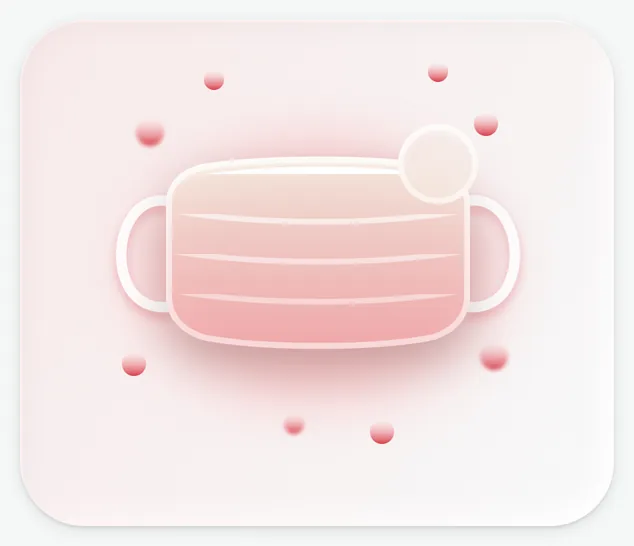
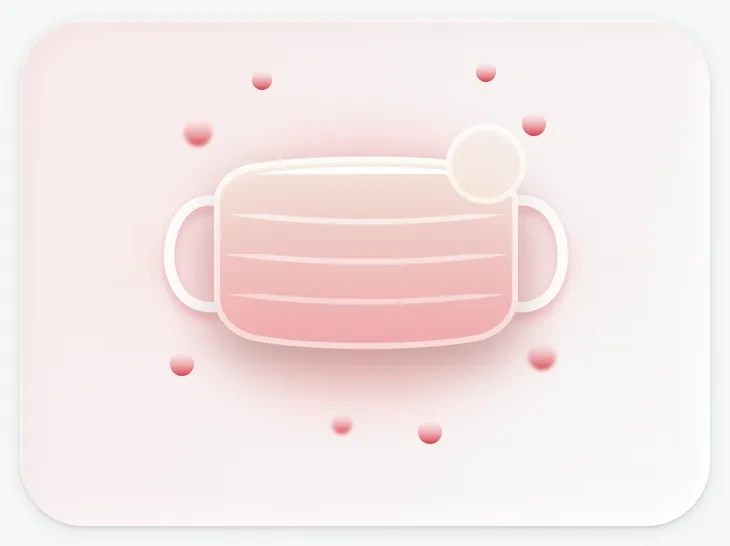
앱 v009: 본문 여백 48→24(폭 345) 반영, 증상 선택 버튼 정도별 색, 상세 화살표 유리 원
- 홈·상세·기록·설정 본문 폭 297→345, 홈 칩·카드·미니카드(166.5)·기록 카드 크기 v009에 맞춤
- 설정(B) 유리 패널 제거, 상세 화살표를 카드 아래층의 48px 유리 원으로
- D2 증상 버튼: 정도별 점·선택 색(심함/보통/약함/없음)
- 카드 그림은 tools/widen_art.py 로 v008 원본(tools/art_v008)에서 새 크기로 생성

Claude-Session: https://claude.ai/code/session_01CQujdFyja6aqkNEBx4wamv

diff --git a/src/template.html b/src/template.html
@@ -654,15 +654,17 @@ textarea.memo::placeholder{color:var(--i5)}
 .avatar svg{display:block;margin:0;position:relative;top:1.3px}
 {{OTX_CSS}}
 
+/* 설정(B) v009: 유리 패널을 걷어내고 행·카드를 폭 345로 바로 올려요 */
+.wpanel{background:none;border:0;box-shadow:none;backdrop-filter:none;-webkit-backdrop-filter:none;padding:24px 0 28px}
 /* 슬라이드 드래그 중 선택 방지 */
 .pg{user-select:none;-webkit-user-select:none}.pg input,.pg textarea{user-select:text;-webkit-user-select:text}
 /* ===== v008 · 홈/상세(C) + 기록(D) 새 레이아웃 =====
    본문은 유리 패널 없이 페이지 배경(#f5f8f8) 위에 바로 올리고, 카드 그림은 Figma 내보내기 래스터(.art) + 그 위 글자로 구성해요 */
-.pg{position:absolute;left:0;top:115px;width:393px;height:737px;padding:24px 48px 160px;overflow:hidden auto;display:flex;flex-direction:column;gap:20px;z-index:4;scrollbar-width:none;color:var(--i1);touch-action:pan-y}
+.pg{position:absolute;left:0;top:115px;width:393px;height:737px;padding:24px 24px 160px;overflow:hidden auto;display:flex;flex-direction:column;gap:20px;z-index:4;scrollbar-width:none;color:var(--i1);touch-action:pan-y}
 .pg::-webkit-scrollbar{display:none}
 .pg>*{flex:none}
-.pg.g12{gap:12px}
-.panel.pg{border:0;border-radius:0;background:none;box-shadow:none;backdrop-filter:none;-webkit-backdrop-filter:none;top:115px;height:737px;padding:24px 48px 160px;gap:20px;overflow:hidden auto;user-select:auto;-webkit-user-select:auto}
+.pg.g12{gap:24px}
+.panel.pg{border:0;border-radius:0;background:none;box-shadow:none;backdrop-filter:none;-webkit-backdrop-filter:none;top:115px;height:737px;padding:24px 24px 160px;gap:20px;overflow:hidden auto;user-select:auto;-webkit-user-select:auto}
 .panel.pg .scr{overflow:visible;flex:none;margin:0;padding:0;gap:20px;min-height:auto}
 .art{-webkit-mask-image:linear-gradient(90deg,transparent,#000 8px,#000 calc(100% - 8px),transparent),linear-gradient(180deg,transparent,#000 8px,#000 calc(100% - 8px),transparent);-webkit-mask-composite:source-in;mask-image:linear-gradient(90deg,transparent,#000 8px,#000 calc(100% - 8px),transparent),linear-gradient(180deg,transparent,#000 8px,#000 calc(100% - 8px),transparent);mask-composite:intersect;position:absolute;max-width:none;pointer-events:none;user-select:none;-webkit-user-drag:none;display:block}
 /* 서체 기본 */
@@ -673,17 +675,17 @@ textarea.memo::placeholder{color:var(--i5)}
 .ntop>div:first-child{padding-left:8px}
 .ndate{font-size:14px;line-height:20px;font-weight:500;letter-spacing:-.02em}
 .nloc{display:flex;align-items:center;gap:4px;font-size:20px;line-height:24px;font-weight:500;letter-spacing:-.03em;margin-left:-2px}
-.nchip{height:44px;border-radius:24px;padding:0 14px 0 12px;display:flex;align-items:center;gap:6px;font-size:14px;font-weight:500;letter-spacing:-.02em;border:1.5px solid rgba(255,255,255,.95);box-shadow:0 2px 8px rgba(20,40,46,.08),inset 0 1px 0 #fff;white-space:nowrap}
-.nmask{position:relative;width:297px;height:253px;border-radius:32px;cursor:pointer;margin-top:0}
+.nchip{width:195px;height:44px;border-radius:24px;padding:0;display:flex;align-items:center;justify-content:center;gap:4px;font-size:14px;font-weight:500;letter-spacing:-.02em;background:#fff;border:1px solid;box-shadow:none;white-space:nowrap}
+.nmask{position:relative;width:345px;height:253px;border-radius:32px;cursor:pointer;margin-top:0}
 .nmask h3{position:absolute;left:24px;top:149px;margin:0;font-size:20px;line-height:24px;font-weight:500;letter-spacing:-.04em}
 .nmask p{position:absolute;left:24px;top:181px;margin:0;width:190px;font-size:16px;line-height:24px;color:var(--i2);white-space:pre-line;letter-spacing:-.04em;font-weight:400}
-.nmask .chk{left:225px;top:181px;right:auto;margin:0}
+.nmask .chk{left:273px;top:181px;right:auto;margin:0}
 .nmask .chk:not(.done) .c{color:#8a959b}
-.ngrid{display:grid;grid-template-columns:143px 143px;gap:12px}
-.ngrid:not(.r) .np{width:110.5px;gap:0}
-.ngrid.r .np{width:102.5px}
+.ngrid{display:grid;grid-template-columns:166.5px 166.5px;gap:12px}
+.ngrid:not(.r) .np{width:134.5px;gap:0}
+.ngrid.r .np{width:126.5px}
 .nrec .np{font-weight:500}
-.nm{position:relative;width:143px;height:120px;border-radius:24px;text-align:left;display:block;cursor:pointer}
+.nm{position:relative;width:166.5px;height:120px;border-radius:24px;text-align:left;display:block;cursor:pointer}
 .ngrid.r .nm{height:121px}
 .np{position:absolute;left:16px;top:16px;height:24px;border-radius:99px;display:flex;align-items:center;justify-content:center;gap:4px;padding:0 8px;font-size:14px;line-height:24px;font-weight:400;letter-spacing:-.02em;white-space:nowrap;background:rgba(255,255,255,.62);border:1px solid rgba(255,255,255,.95);box-shadow:inset 0 1px 0 #fff,0 1px 4px rgba(20,40,46,.05);z-index:2}
 .np .i{margin-right:0;opacity:.8}
@@ -694,20 +696,23 @@ textarea.memo::placeholder{color:var(--i5)}
 .nm.gl b{top:66px;font-size:26px;line-height:39px;letter-spacing:-.02em}
 .nm.gl b i{font-style:normal;color:var(--teal)}
 /* 기록 홈 큰 카드 */
-.nrec{position:relative;width:297px;display:block;text-align:left;cursor:pointer;border-radius:32px}
-.nrec.s{height:253px}.nrec.p{height:192px}
-.nrec .s1{position:absolute;left:16px;top:131px;font-size:15px;line-height:23px;font-weight:400;color:var(--i1)}
-.nrec .s2{position:absolute;left:16px;top:160px;font-size:26px;line-height:39px;font-weight:400;letter-spacing:0;color:var(--i1)}
+.nrec{position:relative;width:345px;display:block;text-align:left;cursor:pointer;border-radius:32px}
+.nrec.s{height:240px}.nrec.p{height:190px}
+.nrec .s1{position:absolute;left:16px;top:118px;font-size:15px;line-height:23px;font-weight:400;color:var(--i1)}
+.nrec .s2{position:absolute;left:16px;top:147px;font-size:26px;line-height:39px;font-weight:400;letter-spacing:0;color:var(--i1)}
 .nrec.p p{position:absolute;left:24px;top:58px;margin:0;font-size:18px;line-height:27px;color:var(--i2);letter-spacing:-.05em;white-space:pre-line}
-.nrec .chk{left:225px;top:72px;right:auto;margin:0}
+.nrec .chk{left:273px;top:71px;right:auto;margin:0}
 /* 상세 히어로 */
-.nh{position:relative;width:297px;height:406px;color:#fff;margin-bottom:10px}
+.nh{position:relative;width:297px;height:406px;color:#fff;margin:0 24px 14px;isolation:isolate}
 .nhl{position:absolute;left:24px;top:24px;font-size:18px;line-height:22px;font-weight:400;letter-spacing:-.03em}
 .nht{position:absolute;left:20px;top:46px;display:flex;align-items:baseline;gap:8px;font-size:40px;line-height:56px;font-weight:700;letter-spacing:-.03em;white-space:nowrap}
 .nht b{font-size:24px;font-weight:400}
 .nhc{position:absolute;left:20px;top:350px;font-size:14px;line-height:21px;font-weight:500;letter-spacing:-.02em;white-space:pre-line;width:262px}
-.nch{position:absolute;top:182px;width:24px;height:24px;color:var(--i5);display:grid;place-items:center}
-.nch.l{left:-32px}.nch.r{right:-32px}.nch.r .i{transform:scaleX(-1)}
+.nch{position:absolute;top:169px;width:48px;height:48px;border-radius:50%;color:var(--i5);display:grid;place-items:center;z-index:-2;border:1.25px solid #fff;background:linear-gradient(135deg,rgba(255,255,255,.8),rgba(255,255,255,.18));box-shadow:0 2px 8px rgba(20,40,46,.12),inset 0 1px 4px #fff;-webkit-backdrop-filter:blur(4px);backdrop-filter:blur(4px)}
+/* 화살표 원은 카드 '아래층'에 깔려요. 카드 그림은 가장자리 번짐(그림자)이 바탕색으로 구워져 있어 원을 덮으므로, 좌우 번짐만 투명하게 걷고 그 자리에 실제 그림자를 겹쳐서 카드가 원 위로 드리우는 느낌을 내요 */
+.nch.l{left:-37px}.nch.r{right:-36px}.nch.r .i{transform:scaleX(-1)}
+.nh::before{content:'';position:absolute;inset:0;border-radius:32px;z-index:-1;box-shadow:0 2px 16px rgba(20,40,46,.20);pointer-events:none}
+.nh>.art,.nh>.artw{-webkit-mask-image:linear-gradient(90deg,transparent,#000 8px,#000 calc(100% - 8px),transparent),linear-gradient(180deg,transparent,#000 8px,#000 calc(100% - 8px),transparent),linear-gradient(90deg,transparent 24px,#000 31px,#000 calc(100% - 31px),transparent calc(100% - 24px)),linear-gradient(180deg,#000 150px,transparent 185px,transparent 265px,#000 300px);mask-image:linear-gradient(90deg,transparent,#000 8px,#000 calc(100% - 8px),transparent),linear-gradient(180deg,transparent,#000 8px,#000 calc(100% - 8px),transparent),linear-gradient(90deg,transparent 24px,#000 31px,#000 calc(100% - 31px),transparent calc(100% - 24px)),linear-gradient(180deg,#000 150px,transparent 185px,transparent 265px,#000 300px);-webkit-mask-composite:source-in,source-in,source-over;mask-composite:intersect,intersect,add}
 .nh+.sec,.nh+.scr{margin-top:21px}
 .panel.pg .scr>.sec+.sec{margin-top:15px}
 .panel.pg .scr .sec .card:has(.hs){margin-top:-11px}
@@ -717,6 +722,10 @@ textarea.memo::placeholder{color:var(--i5)}
 .panel.pg .lbl{font-weight:400}
 .panel.pg .bars button.f,.panel.pg .xl .f{opacity:1}
 .panel.pg .sts{margin-top:20px}
+/* 상세(C_2_x) 본문 폭 345: 관측 현황 칸은 글자 시작점이 x24·157·290, 적용 기준 버튼은 107×39 */
+.panel.pg .row3{grid-template-columns:133px 133px 1fr}
+.panel.pg .seg{gap:12px}.panel.pg .seg button{height:39px}
+.panel.pg .sts{padding-left:16px;gap:4px}
 /* 공통 제목 */
 .nt{font-size:18px;line-height:24px;font-weight:400;letter-spacing:-.03em;color:var(--i1)}
 .nb{height:204px;display:flex;flex-direction:column;justify-content:center;gap:4px;padding-bottom:8px}
@@ -729,16 +738,17 @@ textarea.memo::placeholder{color:var(--i5)}
 .nb .gd2{font-size:36px;line-height:48px;font-weight:700;letter-spacing:-.05em}
 .nb .gd5{font-size:48px;font-weight:700;color:var(--teal);line-height:48px}
 .nb .b4{font-size:32px;color:var(--i4);font-weight:400;font-family:var(--serif)}
-.nhr{width:263px;margin:-15px auto -5px;border:0;height:.5px;background:rgba(51,51,51,.2)}
+.nhr{width:100%;margin:-15px 0 -5px;border:0;height:.5px;background:rgba(51,51,51,.2)}
 .ng{display:flex;flex-direction:column;gap:20px}
 .nseg{display:flex;gap:12px}
-.nseg button{width:91px;height:39px;border-radius:99px;border:1px solid var(--ol);text-align:center;font-size:14px;font-weight:500;color:var(--i1);transition:background .25s,color .25s}
+.nseg button{width:107px;height:39px;border-radius:99px;border:1px solid var(--ol);text-align:center;font-size:14px;font-weight:500;color:var(--i1);transition:background .25s,color .25s}
 .nseg button.on{background:var(--i2);border-color:var(--i2);color:#fff}
 .ng.c{gap:2px;margin-top:14px}
-.nchart{padding:12px 21px 0;height:138px}
+.nchart{padding:12px 36px 0;height:138px}
 .nchart .bars{height:92px;padding:0;gap:8px;justify-content:space-between}
 .nchart .xl{padding:8px 0 0;font-size:12px}
-.nchart .xl span{width:26px;margin:0}
+.nchart .xl span{width:42px;margin:0}
+.nchart .bars button{width:42px}
 .nins{display:flex;align-items:center;gap:16px;padding:8px;height:58px;font-size:14px;line-height:21px;letter-spacing:-.02em;white-space:pre-line;color:var(--i1)}
 .nins>.i{color:#b4323a}.nins.ok>.i{color:var(--teal)}
 .nchart+.nins,.ng+.nins{margin-top:-9px}
@@ -750,7 +760,7 @@ textarea.memo::placeholder{color:var(--i5)}
 .nch2 .cm button{width:16px;height:24px;display:grid;place-items:center;color:var(--i1)}
 .nch2 .clg{display:flex;gap:12px;font-size:12px;white-space:nowrap}
 .nch2 .lg{display:flex;align-items:center;gap:4px}
-.ncal{width:297px;border-radius:12px;padding:8px 0 8px}
+.ncal{width:100%;border-radius:12px;padding:8px 0 8px}
 .ncal .wk{display:grid;grid-template-columns:repeat(7,40px);justify-content:center;font-size:10px;font-weight:700;text-align:center;line-height:16px;height:20px}
 .ncal .rw{display:grid;grid-template-columns:repeat(7,40px);justify-content:center;height:48px;align-items:center}
 .ncal .dy{width:36px;height:36px;margin:0 auto;border-radius:24px;display:grid;place-items:center;font-size:14px;line-height:20px;position:relative}
@@ -763,11 +773,19 @@ textarea.memo::placeholder{color:var(--i5)}
 .nsy{display:flex;flex-direction:column;gap:24px;margin-top:2px}
 .nl{font-size:14px;line-height:21px;font-weight:500;letter-spacing:-.02em;margin-bottom:11px}
 .nopt{display:flex;justify-content:space-between}
-.nopt button{width:60px;height:39px;border-radius:99px;border:1px solid var(--ol);text-align:center;font-size:14px;font-weight:400;transition:background .25s,color .25s}
-.nopt button.on{background:var(--i2);border-color:var(--i2);color:#fff}
-.nmemo{width:297px;height:97px;border-radius:24px;border:1px solid #c9d1d4;background:none;padding:12px 20px;font-size:12px;line-height:18px;resize:none;color:var(--i1);display:block}
+.nopt button{width:70px;height:39px;border-radius:99px;border:1px solid var(--ol);text-align:center;font-size:14px;font-weight:400;transition:background .25s,color .25s}
+.nopt button{display:flex;align-items:center;justify-content:center;gap:6px;border-color:rgba(21,26,31,.22);color:#151a1f;background:none}
+.nopt .sd{display:block;flex:none;border-radius:50%;box-sizing:border-box}
+.nopt .l3 .sd{width:10px;height:10px;background:#ad4d5c}.nopt .l2 .sd{width:7px;height:7px;background:#b87533}
+.nopt .l1 .sd{width:5px;height:5px;background:#618057}.nopt .l0 .sd{width:6px;height:6px;border:1.2px solid #99a3ab}
+.nopt button.on{border-width:1.5px;font-weight:600}
+.nopt button.l3.on{background:rgba(173,77,92,.1);border-color:#ad4d5c;color:#ad4d5c}
+.nopt button.l2.on{background:rgba(184,117,51,.1);border-color:#b87533;color:#b87533}
+.nopt button.l1.on{background:rgba(97,128,87,.1);border-color:#618057;color:#618057}
+.nopt button.l0.on{background:rgba(102,114,122,.1);border-color:#66727a;color:#66727a}
+.nmemo{width:100%;height:87px;border-radius:24px;border:1px solid #c9d1d4;background:none;padding:12px 20px;font-size:12px;line-height:18px;resize:none;color:var(--i1);display:block}
 .nmemo::placeholder{color:#8a959b}
-.nsave{width:297px;height:52px;border-radius:24px;background:var(--i2);color:#fff;font-weight:700;font-size:16px;letter-spacing:.07em;text-align:center}
+.nsave{width:100%;height:52px;border-radius:24px;background:var(--i2);color:#fff;font-weight:700;font-size:16px;letter-spacing:.07em;text-align:center}
 /* D3 */
 .nhash{display:flex;gap:8px;margin-top:10px}
 .nhash span{height:22px;padding:0 10px;border-radius:24px;background:var(--teal);color:#fff;font-size:12px;line-height:22px;white-space:nowrap}
@@ -782,7 +800,7 @@ textarea.memo::placeholder{color:var(--i5)}
 .nrow .m b{font-size:14px;line-height:19px;font-weight:500}.nrow .m small{color:var(--i5);font-size:11px;line-height:16px;white-space:nowrap;overflow:hidden;text-overflow:ellipsis}
 .nrow button{color:var(--i5);width:24px;height:24px;display:grid;place-items:center}.nrow.hi button{color:var(--teal)}
 /* D4 */
-.ncl{width:297px;min-height:164px;padding:6px 0;display:flex;flex-direction:column;gap:16px}
+.ncl{width:100%;min-height:164px;padding:6px 0;display:flex;flex-direction:column;gap:16px}
 .ncl .it{display:flex;align-items:center;gap:4px;height:24px;font-size:14px;font-weight:400;color:var(--i1);text-align:left;width:100%;border:0;background:none;padding:0}
 .ncl .it .bx{display:grid;place-items:center;width:18px;height:18px;margin:3px;border:1.5px solid var(--i1);background:none;border-radius:3px;color:#fff;flex:none}
 .ncl .it.on .bx{background:var(--teal);border-color:var(--teal)}
@@ -1157,7 +1175,7 @@ const WCOND='sunny';
 const HUE={mask:[-115,150,45,0],pollen:[90,0,-105,-150],fine:[-115,150,45,0],ultra:[200,105,0,-40]};
 const hueF=(k,L)=>k&&HUE[k]&&HUE[k][L]?`filter:hue-rotate(${HUE[k][L]}deg)`:'';
 /* 카드 그림 속 주인공(해·꽃·먼지·마스크·연필·차트)만 둥글게 오려 한 겹 더 얹어 천천히 떠다니게 해요: [중심x, 중심y, 가로반경, 세로반경] (카드 좌표) */
-const FLO={hero_weather:[172,272,215,205,32],hero_pollen:[180,268,175,160,32],hero_fine:[185,262,190,170,32],hero_ultra:[180,245,175,160,32],home_weather:[100,80,88,76,24],home_pollen:[102,82,86,74,24],home_fine:[92,80,100,80,24],home_ultra:[96,80,100,80,24],mask:[145,115,200,125,32],rec_season:[208,172,170,140,32],rec_pencil:[225,75,150,125,32]};
+const FLO={hero_weather:[172,272,215,205,32],hero_pollen:[180,268,175,160,32],hero_fine:[185,262,190,170,32],hero_ultra:[180,245,175,160,32],home_weather:[123.5,80,88,76,24],home_pollen:[125.5,82,86,74,24],home_fine:[115.5,80,100,80,24],home_ultra:[119.5,80,100,80,24],mask:[169,115,200,125,32],rec_season:[256,159,170,140,32],rec_pencil:[273,74,150,125,32]};
 /* 카드 테두리 안쪽(8px 안)을 부드럽게 도려낸 모양을 SVG 마스크로 만들어요. inv=true면 정확히 반대 모양(테두리 띠) */
 const rrPath=(x,y,w,h,r)=>`M${x+r} ${y}H${x+w-r}A${r} ${r} 0 0 1 ${x+w} ${y+r}V${y+h-r}A${r} ${r} 0 0 1 ${x+w-r} ${y+h}H${x+r}A${r} ${r} 0 0 1 ${x} ${y+h-r}V${y+r}A${r} ${r} 0 0 1 ${x+r} ${y}Z`;
 const insetMask=(W,H,m,r,inv)=>{const i=9,d=rrPath(m+i,m+i,W-2*(m+i),H-2*(m+i),Math.max(0,r-i)),p=inv?`M-80 -80H${W+80}V${H+80}H-80Z${d}`:d;
@@ -1193,7 +1211,7 @@ function dust(kind,r,flt,n,seed,ins=0,cls='',fk=''){
   const f=Math.round(ins*2.4),ed=ins?`linear-gradient(90deg,transparent,#000 ${f}px,#000 calc(100% - ${f}px),transparent),linear-gradient(180deg,transparent,#000 ${f}px,#000 calc(100% - ${f}px),transparent)`:'',mk=ins?`-webkit-mask-image:${ed};mask-image:${ed};-webkit-mask-composite:source-in;mask-composite:intersect;`:'';
   return (cls?'':glow(kind,Math.max(0,r-2),flt,seed,fk))+`<span class="dust ${cls}" aria-hidden="true" style="inset:${ins}px;border-radius:${Math.max(0,r-ins)}px;${mk}${flt||''}">${h}</span>`}
 const kindOf=img=>img.replace(/^(home|hero|rec)_/,'').replace(/^(mask)$/,'mask');
-const nmini=(to,img,hk,L,tag,ic,l1,l2)=>`<button class="nm" data-a="go" data-v="c:${to}">${artImg(img,143,120,10,hueF(hk,L))}${dust(kindOf(img),24,hueF(hk,L),12,'m'+to,7,'',img)}<span class="np">${tag}${I(ic,24)}</span><small>${l1}</small><b>${l2}</b></button>`;
+const nmini=(to,img,hk,L,tag,ic,l1,l2)=>`<button class="nm" data-a="go" data-v="c:${to}">${artImg(img,166.5,120,10,hueF(hk,L))}${dust(kindOf(img),24,hueF(hk,L),12,'m'+to,7,'',img)}<span class="np">${tag}${I(ic,24)}</span><small>${l1}</small><b>${l2}</b></button>`;
 const CHEV=(d)=>`<button class="nch ${d<0?'l':'r'}" data-a="cgo" data-v="${d}" aria-label="${d<0?'이전':'다음'} 화면">${I('arrow_back_ios_new',24)}</button>`;
 /* 상세 히어로: 그림 위에 글자를 올리고, 양옆 화살표로 이웃 상세 화면으로 넘어가요 */
 const nhero=(img,hk,L,label,title,cap)=>`<div class="nh">${artImg(img,297,406,30,hueF(hk,L))}${dust(kindOf(img),32,hueF(hk,L),32,'h'+R.t,9,'',img)}<div class="nhl">${label}</div><div class="nht">${title}</div><div class="nhc">${cap}</div>${CHEV(-1)}${CHEV(1)}</div>`;
@@ -1202,8 +1220,8 @@ V.c=()=>{
   const k=['good','good',GK[pol()],GK[g10()],GK[g25()]][R.t];
   let body='';
   if(R.t===0){const h=homeTxt(),L=lvAll(),cc=CHC[L];
-   body=`<div class="ntop"><div><div class="ndate">10월 07일 수요일</div><div class="nloc">${I('location_on',18)}${S.region}</div></div><div class="nchip" style="color:${cc[1]};background:linear-gradient(135deg,rgba(255,255,255,.55),${rgba(cc[0],.3)} 60%,rgba(255,255,255,.3))">${I(h.c[0],24)}${h.c[1]}</div></div>
-   <div class="nmask" data-a="card" role="button" tabindex="0">${artImg('mask',297,253,10,hueF('mask',L))}${dust('mask',32,hueF('mask',L),20,'k',9,'','mask')}<h3>오늘의 비염 관리</h3><p>${h.t}</p>
+   body=`<div class="ntop"><div><div class="ndate">10월 07일 수요일</div><div class="nloc">${I('location_on',18)}${S.region}</div></div><div class="nchip" style="color:${cc[1]};border-color:${rgba(cc[1],.25)}">${I(h.c[0],24)}${h.c[1]}</div></div>
+   <div class="nmask" data-a="card" role="button" tabindex="0">${artImg('mask',345,253,10,hueF('mask',L))}${dust('mask',32,hueF('mask',L),20,'k',9,'','mask')}<h3>오늘의 비염 관리</h3><p>${h.t}</p>
     <button class="chk ${allDone()?'done':''}" data-a="chk" aria-label="오늘 챙김 완료 ${allDone()?'취소':'체크'}"><span class="rg a"></span><span class="rg b"></span><span class="c">${I('check',26)}</span></button></div>
    <div class="ngrid">${nmini(1,'home_weather',null,0,'오늘의 날씨','device_thermostat','24.5°C','맑음')}${nmini(2,'home_pollen','pollen',pol(),'꽃가루지수','local_florist','24.5°C',PN[pol()].replace(' ',''))}${nmini(3,'home_fine','fine',g10(),'미세먼지','grain',sc().pm10+'㎍/m³',PN[g10()].replace(' ',''))}${nmini(4,'home_ultra','ultra',g25(),'초미세먼지','snowing',sc().pm25+'㎍/m³',PN[g25()].replace(' ',''))}</div>`}
   else if(R.t===1)body=wthr();
@@ -1246,8 +1264,8 @@ const calCells=()=>{const e0=addD(TODAY,-TODAY.getDay()+U.cal*7-7);const c=[];fo
 const calHead=(cells,legend)=>{const last=cells[13];return `<div class="nch2"><div class="cm"><button data-a="calp" aria-label="이전 주">${I('chevron_left',16)}</button><span>${last.getFullYear()}년 ${last.getMonth()+1}월</span><button data-a="caln" aria-label="다음 주">${I('chevron_right',16)}</button></div>${legend?`<div class="clg"><span class="lg"><i class="dot f"></i>챙김 완료</span><span class="lg"><i class="dot"></i>미완료</span></div>`:''}</div>`};
 V.d=()=>{setPal('cd');let b='';
  if(R.t===0){
-  b=`<button class="nrec s" data-a="tab" data-v="1">${artImg('rec_season',297,253,10)}${dust('season',32,'',20,'s',9,'','rec_season')}<span class="np" style="left:16px;top:16px">시즌별 패턴${I('waterfall_chart',24)}</span><span class="s1">환절기 시즌이에요</span><span class="s2">이맘때쯤<br>증상이 심해져요</span></button>
-  <div class="nrec p" data-a="tab" data-v="2" role="button" tabindex="0">${artImg('rec_pencil',297,192,10)}${dust('pencil',32,'',18,'p',9,'','rec_pencil')}<span class="np" style="left:22px;top:22px">증상 기록하기${I('edit-ul',24)}</span><p>오늘 겪었던 불편함을\n기록해요\n꾸준히 적을수록\n내 패턴이 더 잘 보여요</p><span class="chk"><span class="rg a"></span><span class="rg b"></span><span class="c">${I('add',30)}</span></span></div>
+  b=`<button class="nrec s" data-a="tab" data-v="1">${artImg('rec_season',345,240,10)}${dust('season',32,'',20,'s',9,'','rec_season')}<span class="np" style="left:16px;top:16px">시즌별 패턴${I('waterfall_chart',24)}</span><span class="s1">환절기 시즌이에요</span><span class="s2">이맘때쯤<br>증상이 심해져요</span></button>
+  <div class="nrec p" data-a="tab" data-v="2" role="button" tabindex="0">${artImg('rec_pencil',345,190,10)}${dust('pencil',32,'',18,'p',9,'','rec_pencil')}<span class="np" style="left:24px;top:24px">증상 기록하기${I('edit-ul',24)}</span><p>오늘 겪었던 불편함을\n기록해요\n꾸준히 적을수록\n내 패턴이 더 잘 보여요</p><span class="chk"><span class="rg a"></span><span class="rg b"></span><span class="c">${I('add',30)}</span></span></div>
   <div class="ngrid r"><button class="nm gl" data-a="tab" data-v="3"><span class="np">기록 요약${I('article_shortcut',24)}</span><small>최근 7일 평균 증상</small><b>${avg7()}</b></button>
   <button class="nm gl" data-a="tab" data-v="4"><span class="np">챙김 기록${I('check_box',24)}</span><small>이번 주 체크</small><b><i>${weekN()}</i>/7일</b></button></div>`}
  else if(R.t===1){
@@ -1264,7 +1282,7 @@ V.d=()=>{setPal('cd');let b='';
   b=`<div class="nt">증상 기록</div><div class="ndh">${I('calendar_month',24)}<span>느낀 증상을 선택해주세요.</span></div>
   <div class="ng" style="gap:4px">${calHead(cells,false)}<div class="ncal"><div class="wk">${WK.map(w=>`<span>${w}</span>`).join('')}</div>${[0,7].map(o=>`<div class="rw">${cells.slice(o,o+7).map(d=>{const k=dk(d),off=d.getMonth()!==cells[13].getMonth();return `<button class="dy ${k===TK?'td':''} ${k===e?'sel':''} ${off?'off':''}" data-a="pickDay" data-v="${k}" aria-label="${d.getMonth()+1}월 ${d.getDate()}일${k===TK?' 오늘':''}${k===e?' 선택됨':''}"><span>${d.getDate()}</span></button>`}).join('')}</div>`).join('')}</div></div>
   <hr class="nhr">
-  <div class="nsy">${SYM.map((x,i)=>`<div><div class="nl">${x}</div><div class="nopt">${[3,2,1,0].map(v=>`<button class="${r.v[i]===v?'on':''}" data-a="sym" data-v="${i}:${v}">${LV[v]}</button>`).join('')}</div></div>`).join('')}</div>
+  <div class="nsy">${SYM.map((x,i)=>`<div><div class="nl">${x}</div><div class="nopt">${[3,2,1,0].map(v=>`<button class="l${v} ${r.v[i]===v?'on':''}" data-a="sym" data-v="${i}:${v}"><i class="sd"></i>${LV[v]}</button>`).join('')}</div></div>`).join('')}</div>
   <div><div class="nl">메모 (선택)</div><textarea class="nmemo" id="memo" data-in="memo" placeholder="예시 : 저녁부터 코막힘이 심해졌어요.">${r.memo}</textarea></div>
   <button class="nsave" data-a="saveRec">저장하기</button>`}
  else if(R.t===3){
@@ -1291,7 +1309,7 @@ V.b=()=>{setPal('wh');const sl=slider(['notifications_active-fill','computer-fil
   <div class="fld"><span class="l">이메일</span><div class="pill dis">${S.email}</div></div>
   <div class="fld"><label for="b3r">관심지역</label><div class="pill rg">${I('location_on',20)}<input id="b3r" data-in="b_q" value="${f.q??S.region}" autocomplete="off"><span style="color:var(--mute)">${I('search',18)}</span></div>${U.sugOpen?`<div class="sug">${REG.filter(r=>!f.q||r.includes(f.q)||f.q===S.region).slice(0,4).map(r=>`<button data-a="pickReg2" data-v="${r}">${I('location_on',18)}${r}</button>`).join('')}</div>`:''}</div>
   <div class="fld"><span class="l">비염 증상 정도</span><div class="sev">${['경미','보통','심함'].map(x=>`<button class="${(f.sev??S.sev)===x?'on':''}" data-a="bSev" data-v="${x}">${x}</button>`).join('')}</div></div>`}
- return `${hdrGlass()}${sl}<section class="wpanel fade" style="height:${[341,341,545][R.t]}px">${b}</section>${R.t===2?`<div style="position:absolute;left:24px;right:24px;top:748px;z-index:5"><button class="dark" data-a="b_save">저장하기</button></div>`:''}`};
+ return `${hdrGlass()}${sl}<section class="wpanel fade" style="height:${[344,344,548][R.t]}px">${b}</section>${R.t===2?`<div style="position:absolute;left:24px;right:24px;top:748px;z-index:5"><button class="dark" data-a="b_save">저장하기</button></div>`:''}`};
 V.promise=()=>{setPal('dg');const p=S.pr;const chip=(g,x)=>`<button class="${p[g].includes(x)?'on':''}" data-a="prc" data-v="${g}:${x}">${x}</button>`;
  return `${hdrGlass()}<section class="wpanel fade" style="top:139px;gap:16px;padding-bottom:24px"><h2>내 대처 약속</h2><p style="margin:-8px 0 0 8px;font-size:12px;line-height:18px;color:var(--sub)">앱은 조건을 감지하고, 약속은 내가 정해요.</p>
  <div class="fld" style="gap:8px"><span class="l">비염을 일으키는 것</span><div class="chips">${['꽃가루','미세먼지','찬 공기','집먼지'].map(x=>chip('types',x)).join('')}</div></div>

diff --git a/tools/widen_art.py b/tools/widen_art.py
@@ -1,0 +1,30 @@
+#!/usr/bin/env python3
+"""v009 카드 크기에 맞춰 v008 카드 그림(tools/art_v008/*.webp, 2배 해상도, 사방 10px 여백 포함)을 늘이고 줄여 src/art/ 에 써요.
+아이콘이 찌그러지지 않도록 그림이 없는 띠(그라데이션만 있는 곳)만 늘립니다.  사용: python3 tools/widen_art.py"""
+import numpy as np
+from PIL import Image
+import os
+R=os.path.dirname(os.path.dirname(os.path.abspath(__file__)))
+def load(n): return Image.open(f'{R}/tools/art_v008/{n}.webp').convert('RGBA')
+def save(im,n): im.save(f'{R}/src/art/{n}.webp','WEBP',quality=92,method=6); print(n,im.size)
+def rs(im,w,h): return im.resize((w,h),Image.LANCZOS)
+def hband(im,segs):
+    """segs: [(src_x0,src_x1,dst_w)] 를 차례로 이어 붙여요(끝까지 이어지도록 사이는 그대로)"""
+    W,H=im.size;parts=[];x=0
+    for a,b,d in segs:
+        if a>x:parts.append(im.crop((x,0,a,H)))
+        parts.append(rs(im.crop((a,0,b,H)),d,H));x=b
+    if x<W:parts.append(im.crop((x,0,W,H)))
+    out=Image.new('RGBA',(sum(p.width for p in parts),H));cx=0
+    for p in parts:out.paste(p,(cx,0));cx+=p.width
+    return out
+def vband(im,segs):
+    return hband(im.transpose(Image.TRANSPOSE),segs).transpose(Image.TRANSPOSE)
+# 홈 마스크 카드 297→345 : 아이콘이 가운데라 양쪽 빈 띠를 늘려요 (모서리 곡선 밖)
+m=load('mask');m=hband(m,[(92,112,68),(524,548,72)]);assert m.size==(730,546);save(m,'mask')
+# 기록 홈 큰 카드: 297→345, 시즌 253→240, 연필 192→190. 아이콘은 오른쪽이라 왼쪽 빈 띠를 늘리고, 시즌은 위쪽 빈 띠를 줄여요
+s=load('rec_season');s=vband(s,[(90,186,70)]);s=hband(s,[(120,200,176)]);assert s.size==(730,520),s.size;save(s,'rec_season')
+p=load('rec_pencil');p=vband(p,[(100,200,96)]);p=hband(p,[(120,200,176)]);assert p.size==(730,420),p.size;save(p,'rec_pencil')
+# 홈 미니카드 143→166.5 : 아이콘(해·꽃가루…)이 오른쪽 아래라서 왼쪽의 빈 띠만 늘려요(그러면 아이콘이 오른쪽으로 23.5px 밀려요)
+for n in ['home_weather','home_pollen','home_fine','home_ultra']:
+    h=load(n);h=hband(h,[(70,80,57)]);assert h.size==(373,280),h.size;save(h,n)
